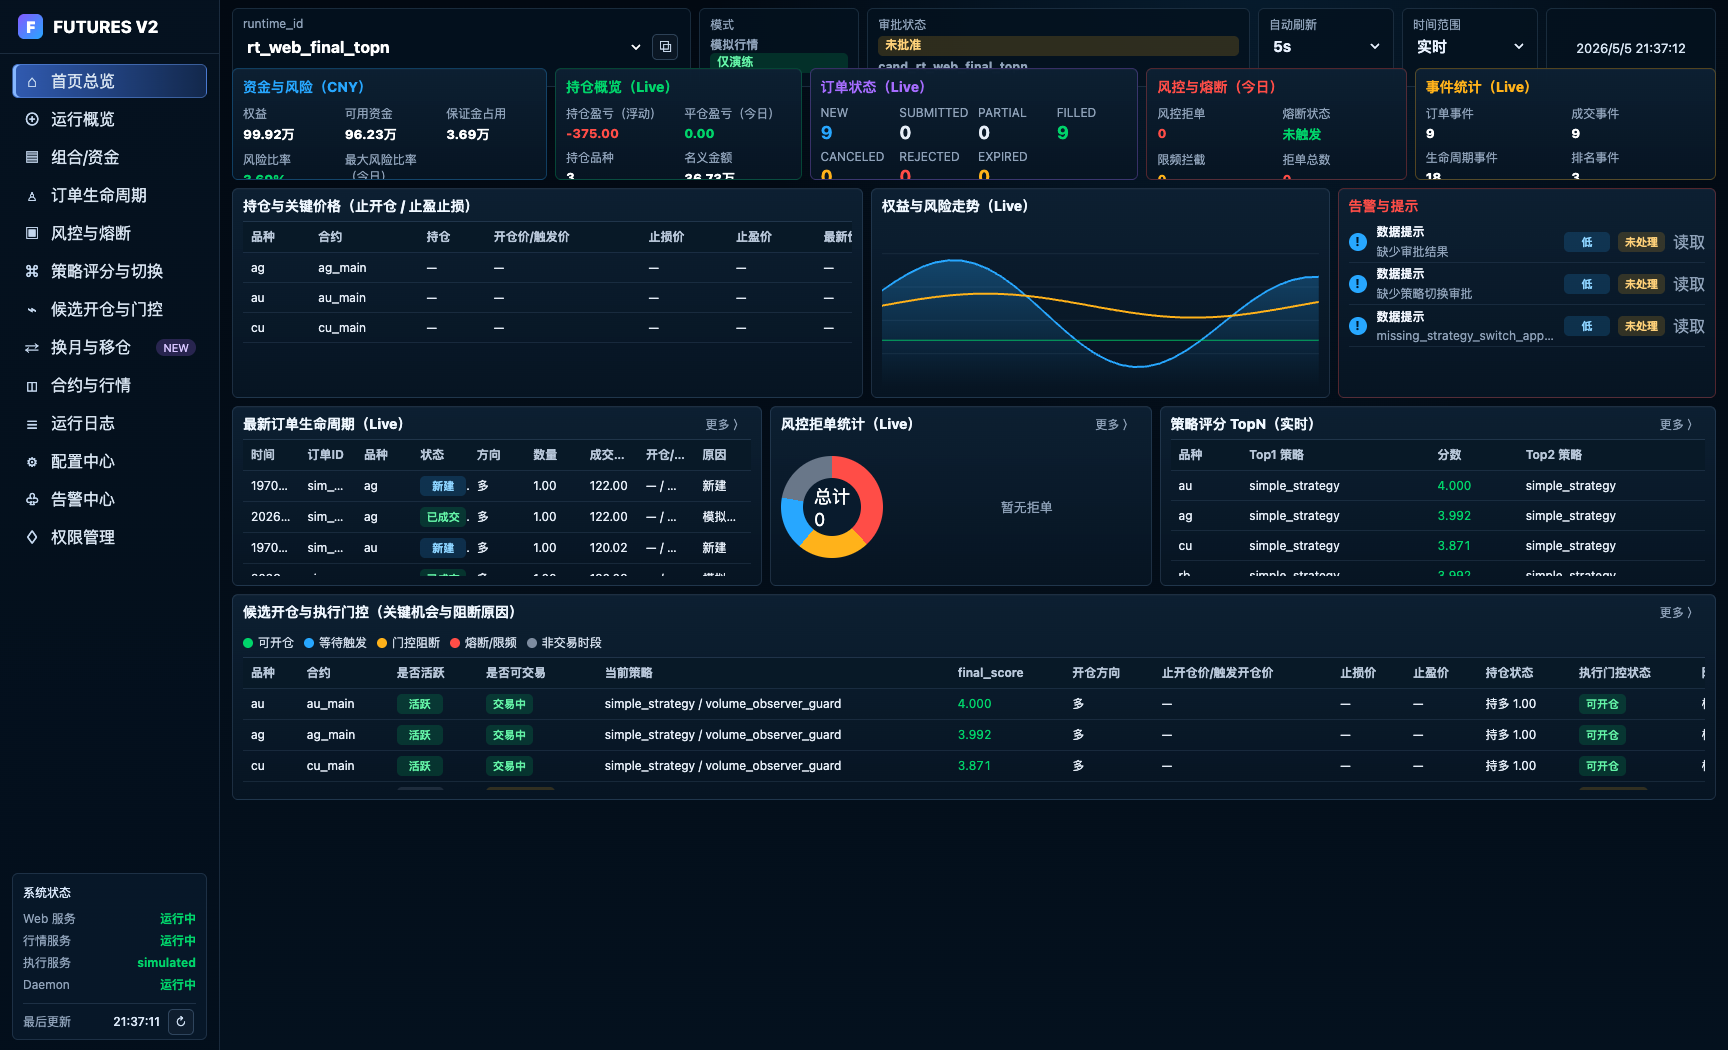
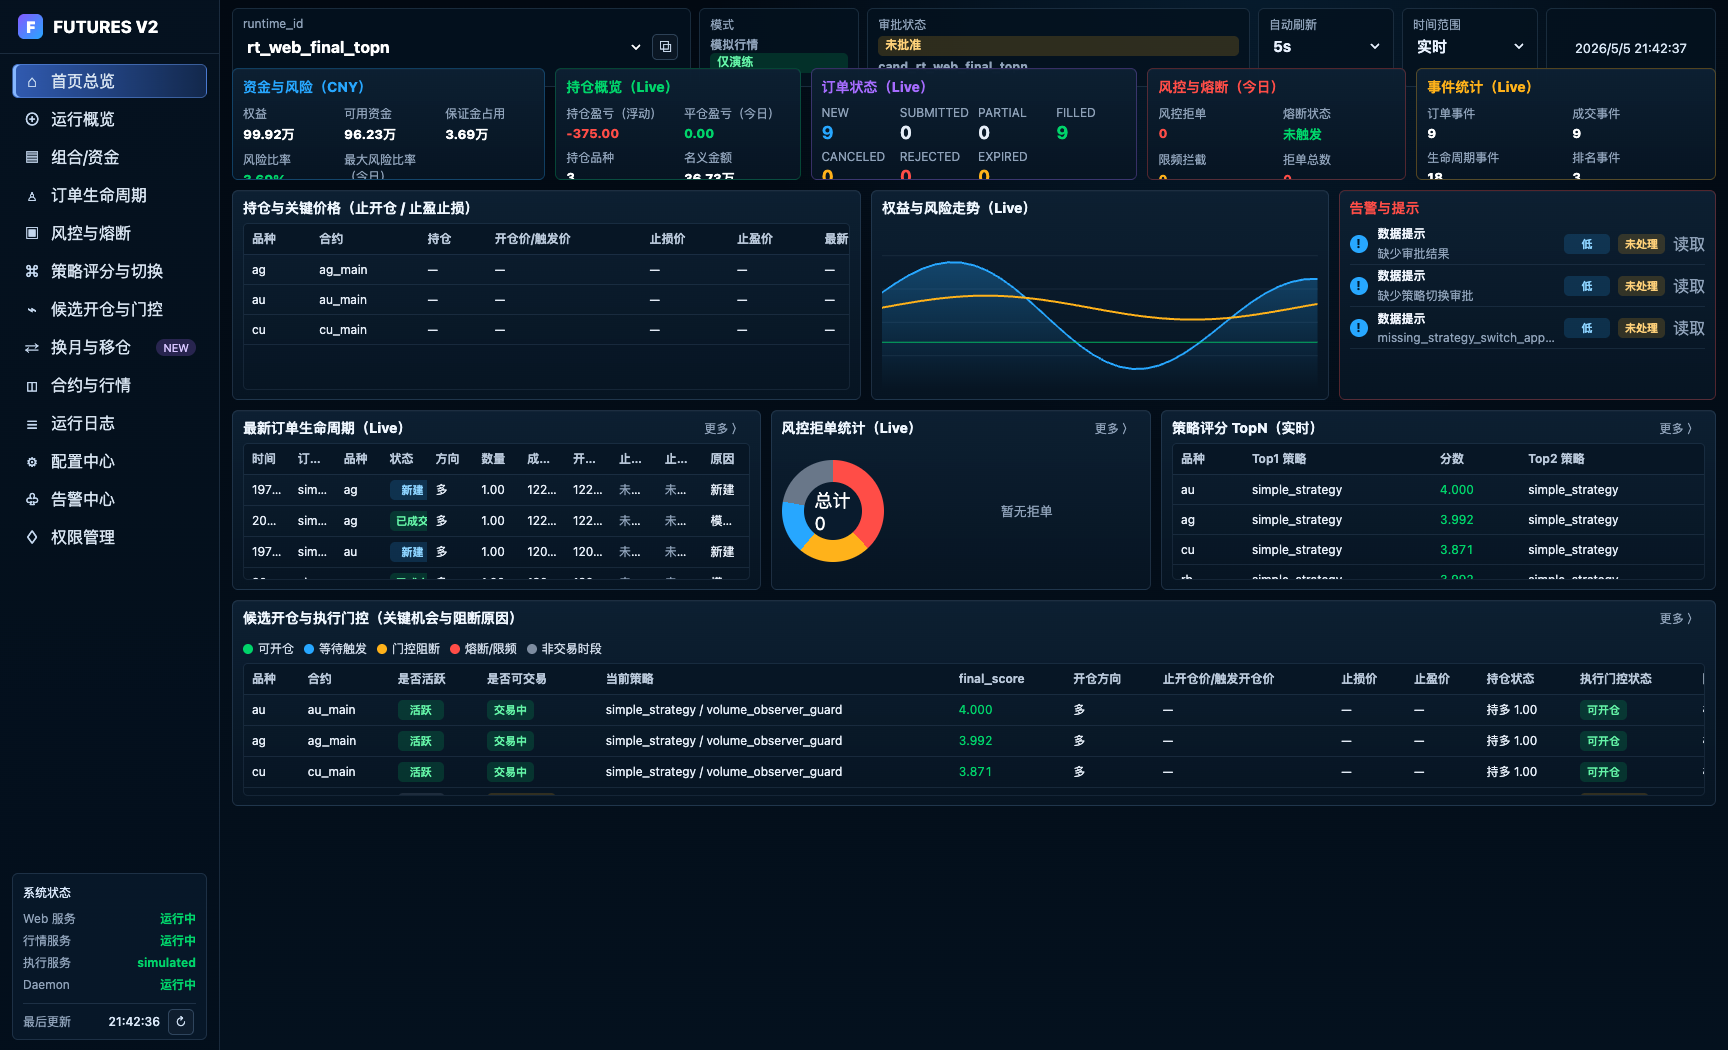
fix: align lifecycle and dashboard panels

diff --git a/web/ui/app.js b/web/ui/app.js
@@ -508,7 +508,7 @@ function alertsList() {
 
 function lifecycleTable(rows) {
   const orderById = orderEventById();
-  return table(["时间", "订单ID", "品种", "状态", "方向", "数量", "成交均价", "开仓/止损/止盈", "原因"], rows.map((row) => {
+  return table(["时间", "订单ID", "品种", "状态", "方向", "数量", "成交均价", "开仓价", "止损价", "止盈价", "原因"], rows.map((row) => {
     const order = orderById[row.order_id] || {};
     const x = { ...order, ...row };
     return [
@@ -519,7 +519,9 @@ function lifecycleTable(rows) {
       sideZh(x.side),
       fmtMaybe(x.quantity),
       fmtMaybe(x.avg_fill_price || x.fill_price),
-      `${fmtMaybe(stopOpenValue(x))} / ${fmtMaybe(stopLossValue(x))} / ${fmtMaybe(takeProfitValue(x))}`,
+      fmtMaybe(stopOpenValue(x)),
+      fmtPriceOrUnset(stopLossValue(x)),
+      fmtPriceOrUnset(takeProfitValue(x)),
       zhReason(x.reason),
     ];
   }), { fit: true });
@@ -533,7 +535,7 @@ function orderEventById() {
 }
 
 function stopOpenValue(x) {
-  return x.stop_open_price ?? x.stop_open ?? x.trigger_price ?? x.expected_price ?? x.avg_fill_price ?? x.fill_price ?? x.price;
+  return x.stop_open_price ?? x.stop_open ?? x.trigger_price ?? x.expected_price ?? x.avg_fill_price ?? x.fill_price ?? x.raw_fill_price ?? x.market_price ?? x.price;
 }
 
 function stopLossValue(x) {
@@ -544,13 +546,17 @@ function takeProfitValue(x) {
   return x.take_profit ?? x.take_profit_price;
 }
 
+function fmtPriceOrUnset(value) {
+  return value == null ? `<span class="muted">未设置</span>` : fmtMaybe(value);
+}
+
 function lifecycleStatusBar(rows) {
   const statuses = ["", "NEW", "SUBMITTED", "PARTIAL", "FILLED", "REJECTED", "EXPIRED", "CANCELED"];
   const counts = rows.reduce((acc, row) => {
     acc[row.status] = (acc[row.status] || 0) + 1;
     return acc;
   }, {});
-  return `<div class="status-filter">${statuses.map((status) => {
+  return `<div class="status-filter lifecycle-status-filter scroll-area">${statuses.map((status) => {
     const active = status === state.lifecycleStatusFilter;
     const label = status ? `${zhStatus(status)} ${fmtInt(counts[status] || 0)}` : `全部 ${fmtInt(rows.length)}`;
     return `<button class="filter-chip ${active ? "active" : ""}" data-lifecycle-status="${esc(status)}">${esc(label)}</button>`;

diff --git a/web/ui/style.css b/web/ui/style.css
@@ -276,19 +276,19 @@ select {
 
 .home-grid {
   display: grid;
-  gap: 8px;
+  gap: 10px;
 }
 
 .kpi-grid {
   display: grid;
   grid-template-columns: 1.15fr 0.9fr 1.2fr 0.95fr 1.1fr;
-  gap: 8px;
+  gap: 10px;
 }
 
 .row-grid-3 {
   display: grid;
   grid-template-columns: 1.1fr 0.8fr 0.66fr;
-  gap: 8px;
+  gap: 10px;
 }
 
 .row-grid-3.equal {
@@ -303,6 +303,7 @@ select {
     linear-gradient(180deg, rgba(14, 33, 52, 0.82), rgba(6, 20, 34, 0.92)),
     var(--panel);
   box-shadow: inset 0 1px 0 rgba(255, 255, 255, 0.025);
+  overflow: hidden;
 }
 
 .panel-card.blue { border-color: rgba(39, 167, 255, 0.28); }
@@ -448,14 +449,15 @@ select {
 .table-wrap {
   height: 100%;
   overflow: auto;
-  border-top: 1px solid var(--line);
+  border: 1px solid rgba(105, 137, 173, 0.14);
+  border-radius: 5px;
 }
 
 .table-wrap.no-x {
   overflow-x: hidden;
 }
 
-.status-filter + .table-wrap { height: calc(100% - 32px); }
+.status-filter + .table-wrap { height: calc(100% - 38px); }
 .gate-legend + .table-wrap { height: calc(100% - 30px); }
 
 .data-table {
@@ -485,7 +487,7 @@ select {
   position: sticky;
   top: 0;
   z-index: 2;
-  background: rgba(8, 24, 39, 0.98);
+  background: rgba(7, 22, 36, 0.99);
   color: #b9c8da;
   font-weight: 620;
 }
@@ -712,6 +714,17 @@ select {
   flex-wrap: wrap;
   gap: 6px;
   margin-bottom: 8px;
+}
+
+.lifecycle-status-filter {
+  align-items: center;
+  height: 30px;
+  padding: 2px;
+  overflow-x: hidden;
+  overflow-y: hidden;
+  border: 1px solid rgba(105, 137, 173, 0.14);
+  border-radius: 5px;
+  background: rgba(3, 13, 23, 0.28);
 }
 
 .filter-chip {
